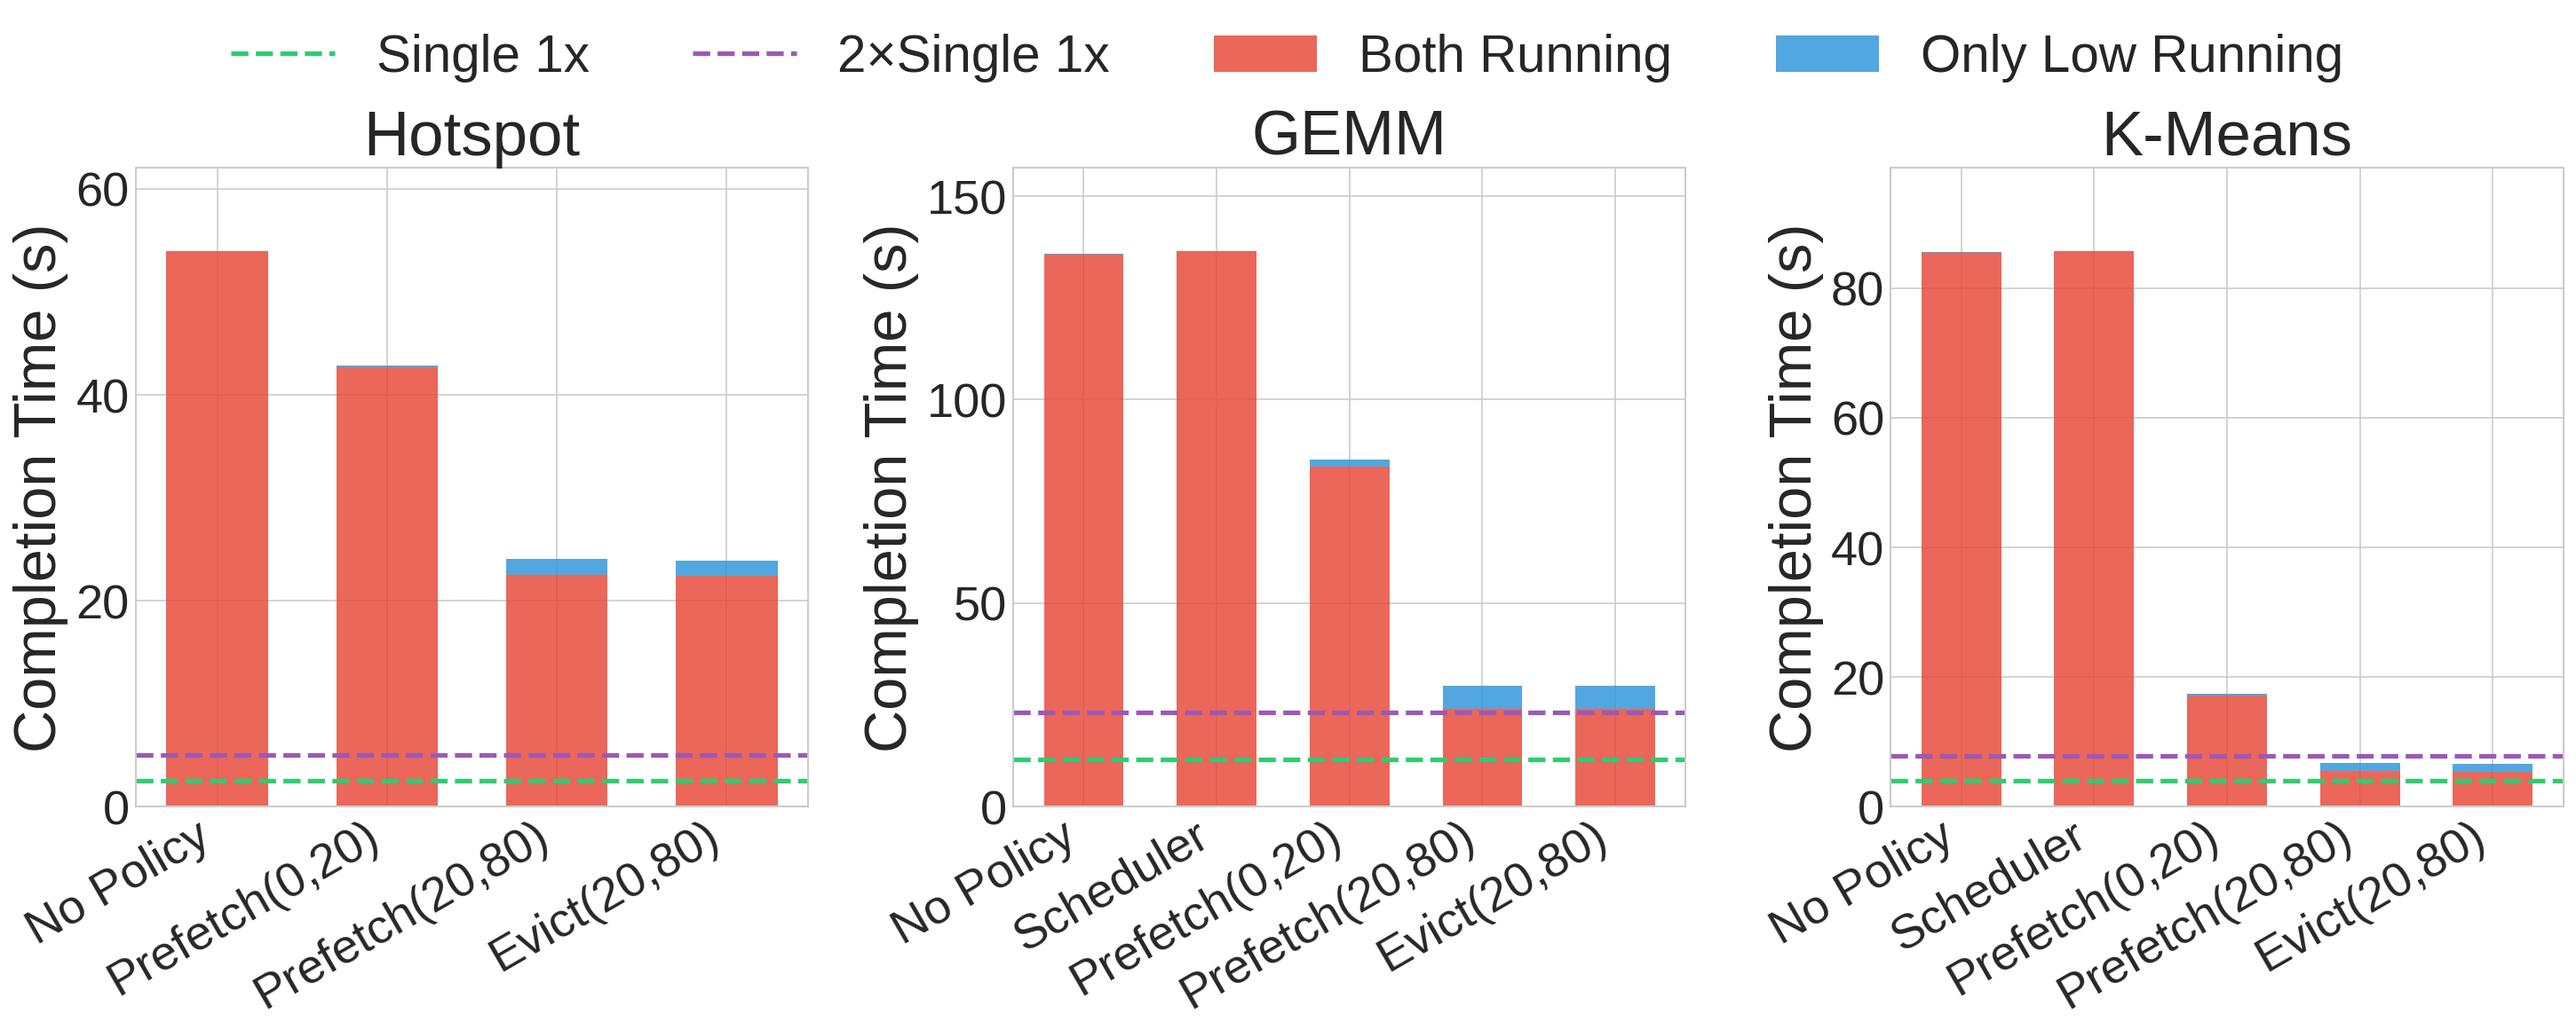
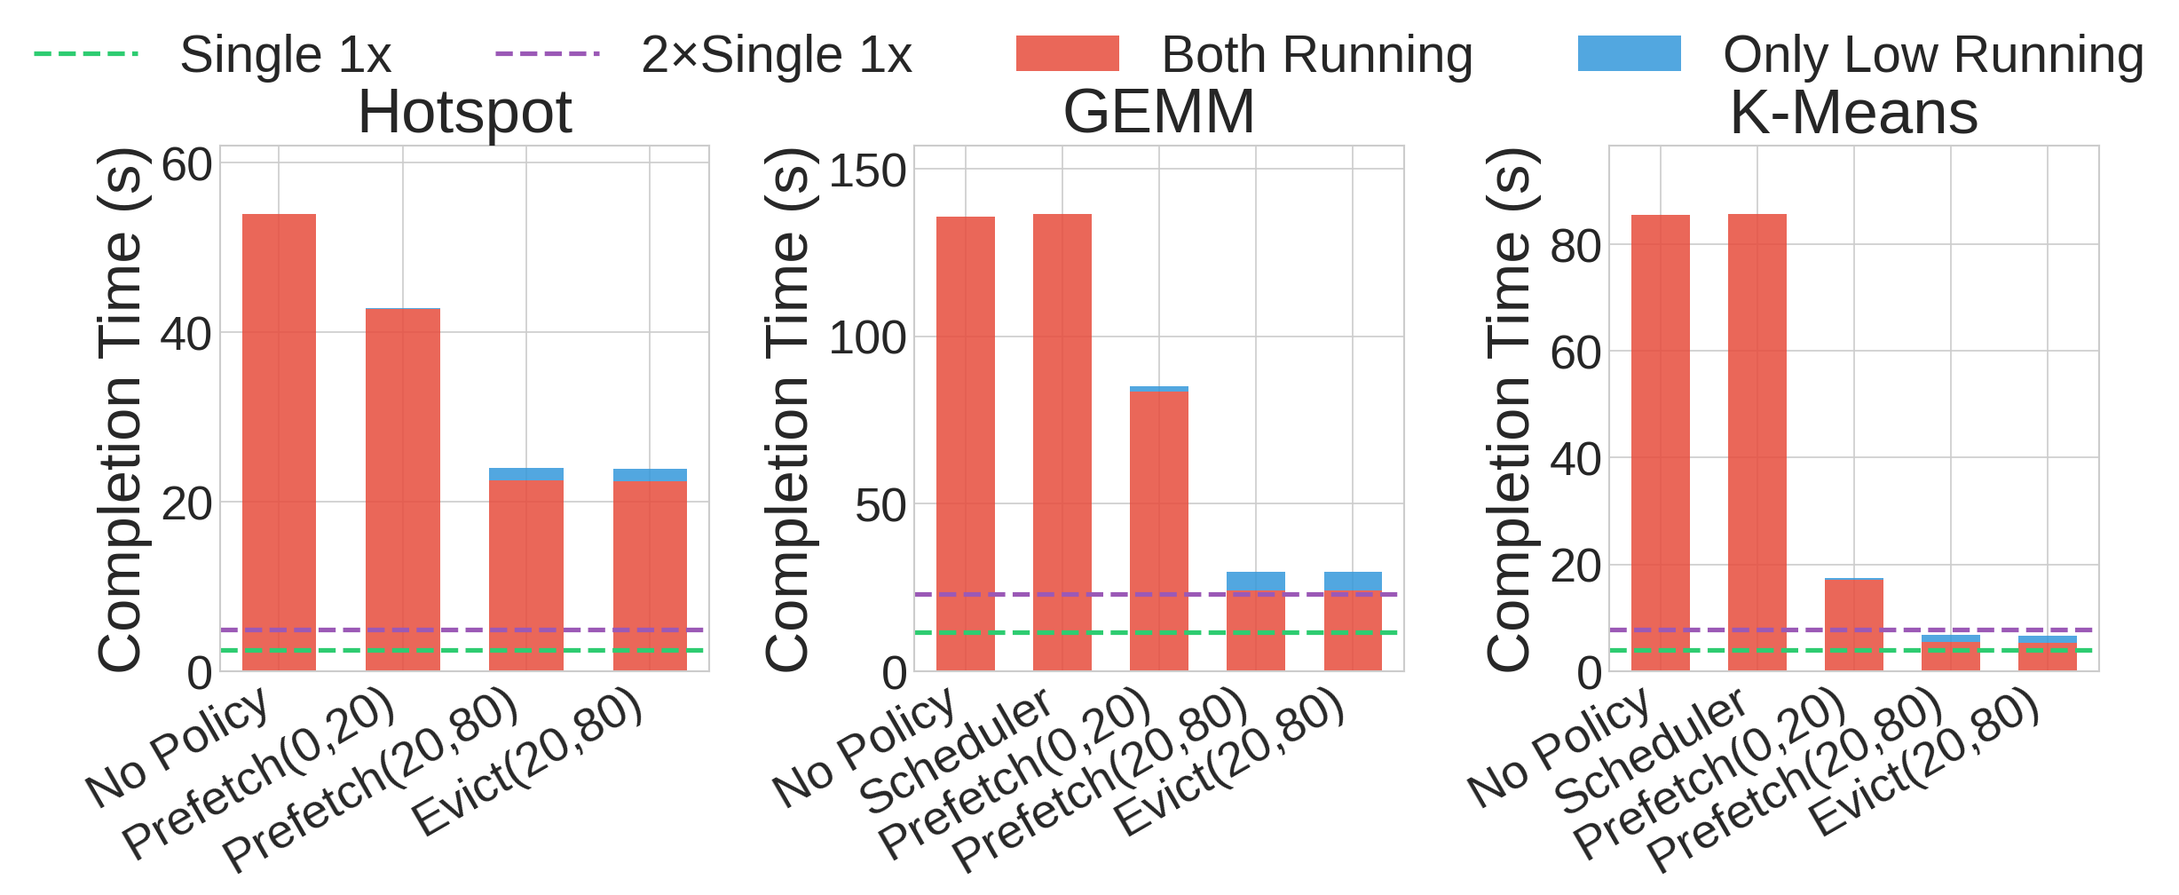
Add CLC Policy Benchmark Driver and Quick Analysis Scripts
- Introduced `run_benchmark.py` to execute the CLC policy benchmark, parse results, and generate visualizations.
- Added `temp_quick_analysis.py` for quick analysis of benchmark results, comparing CLC with static scheduling and specialized policies against baseline CLC.
- Updated plotting scripts in the FAISS and LLaMA workloads to enhance figure aesthetics and adjust layout for better readability.
- Modified various result files in the FAISS and LLaMA workloads to reflect updated benchmarks and visualizations.
- Improved figure generation scripts to ensure consistent formatting and labeling across plots.

diff --git a/workloads/llama.cpp/uvm/plot_colocated_results.py b/workloads/llama.cpp/uvm/plot_colocated_results.py
@@ -164,7 +164,7 @@ def print_analysis():
 def plot_main_figure():
     """Create 3-subplot figure: (a) TTFT, (b) TPOT, (c) GNN Epoch Time."""
 
-    fig, axes = plt.subplots(1, 3, figsize=(18, 6))
+    fig, axes = plt.subplots(1, 3, figsize=(16, 6))
 
     colors_uvm = '#e74c3c'  # Red for baseline UVM
     colors_bpf = '#2ecc71'  # Green for BPF

diff --git a/docs/eval/multi-tenant-memory/plot_all_kernels_stacked.py b/docs/eval/multi-tenant-memory/plot_all_kernels_stacked.py
@@ -190,7 +190,7 @@ def main():
     print_improvements(data, sched_data)
 
     # Create figure with 3 subplots
-    fig, axes = plt.subplots(1, 3, figsize=(20, 8))
+    fig, axes = plt.subplots(1, 3, figsize=(16, 7))
 
     # Plot each kernel
     for idx, (kernel_name, df) in enumerate(data.items()):
